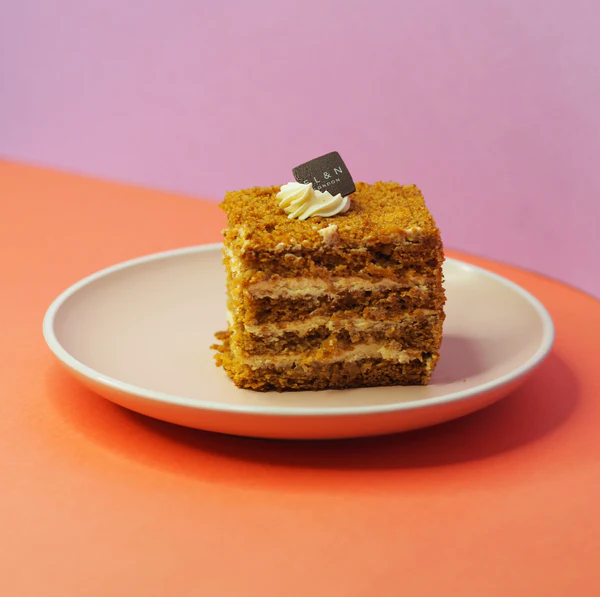
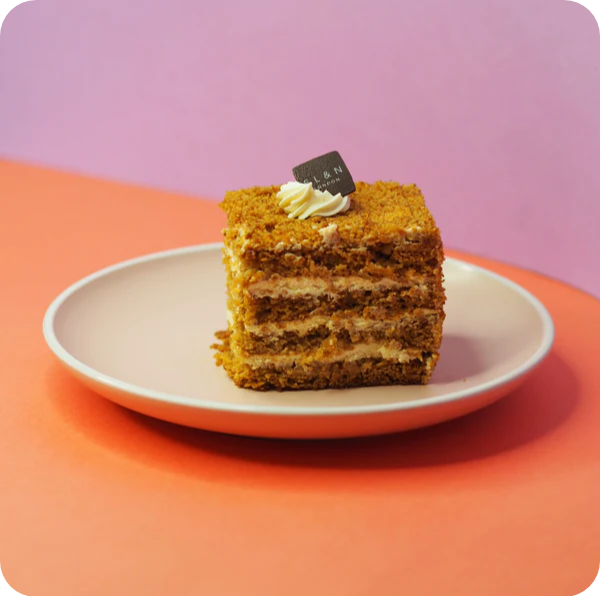
menu img-fixed

diff --git a/index.html b/index.html
@@ -123,7 +123,7 @@
                 <div class="col-lg-4 menu-item">
                   <a href="assets/img/menu/menu-item-1.png" class="glightbox"
                     ><img
-                      src="assets/img/menu/menu-item-1.jpg"
+                      src="assets/img/menu/menu-item-1.png"
                       class="menu-img img-fluid"
                       alt=""
                   /></a>
@@ -134,7 +134,7 @@
                 <div class="col-lg-4 menu-item">
                   <a href="assets/img/menu/menu-item-3.png" class="glightbox"
                     ><img
-                      src="assets/img/menu/menu-item-3.jpg"
+                      src="assets/img/menu/menu-item-3.png"
                       class="menu-img img-fluid"
                       alt=""
                   /></a>
@@ -178,7 +178,7 @@
                 <div class="col-lg-4 menu-item">
                   <a href="assets/img/menu/menu-item-3.png" class="glightbox"
                     ><img
-                      src="assets/img/menu/menu-item-3.jpg"
+                      src="assets/img/menu/menu-item-3.png"
                       class="menu-img img-fluid"
                       alt=""
                   /></a>

diff --git a/assets/css/main.css b/assets/css/main.css
@@ -674,7 +674,7 @@ section {
 .menu .tab-content .menu-item .menu-img {
   padding: 0 60px;
   margin-bottom: 15px;
-  border-radius: 25%;
+   
 }
 
 .menu .tab-content .menu-item h4 {
